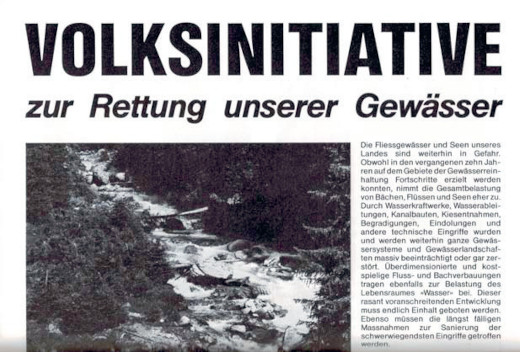
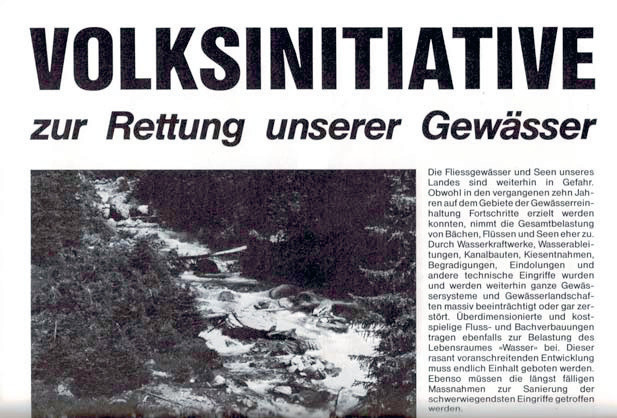
Correct typos, increase image size.

Changed region(s): [[0.8923, 0.0625, 0.9231, 0.0938], [0.7692, 0.0625, 0.8, 0.0938], [0.2462, 0.0625, 0.2769, 0.0938]]

diff --git a/content/strom/02-wissenswertes/index.md b/content/strom/02-wissenswertes/index.md
@@ -42,15 +42,15 @@ reduzieren, wird in diesem Kapitel auf diese Gemeinsamkeiten
 eingegangen, die in den Werkkapiteln damit nur noch gestreift werden
 müssen.
 
-Die meisten frühen Anlagen wurden für Gleichstromproduktion und -
-verteilung gebaut. Als die Kraftstromnachfrage stark stieg und das
+Die meisten frühen Anlagen wurden für Gleichstromproduktion und
+-verteilung gebaut. Als die Kraftstromnachfrage stark stieg und das
 Löntschwerk ab 1908 Wechselstrom (auch Drehstrom genannt) abgab, kam
 es zu Parallelnetzen mit Gleichstrom für Licht und Wechselstrom für
 Gewerbe- und Industriemotoren. Erst nach dem Zweiten Weltkrieg wurden
 die letzten Gleichstromanlagen aufgegeben! Auch bei den
 Stromspannungen herrschte Vielfalt. So waren Lichtanlagen – unabhängig
-ob Gleichoder Wechselstrom – in einer Bandbreite von 100 bis 220 Volt
-gebaut worden. Die ersten regionalen
+ob Gleich- oder Wechselstrom – in einer Bandbreite von 100 bis 220
+Volt gebaut worden. Die ersten regionalen
 Wechselstrom-Übertragungsleitungen wurden mit 4,8 bis 5,6 Kilovolt
 betrieben, die Spannung aber bald auf 8 kV erhöht.
 
@@ -287,5 +287,5 @@ dank der KEV (Kostendeckende Einspeise-Vergütung) nun nicht mehr auf
 die Hilfestellungen der Glarner Solarstrombörse angewiesen sind.
 
 *Dieser Text ist ein Auszug aus «Strom fürs Glarnerland» von August
-Berlinger, erschienen 2022 (ISBN 978-3-033-09268-6) und erhältlich im
-Buchhandel.*
+Berlinger, erschienen 2022 und erhältlich im Buchhandel (ISBN
+978-3-033-09268-6).*
